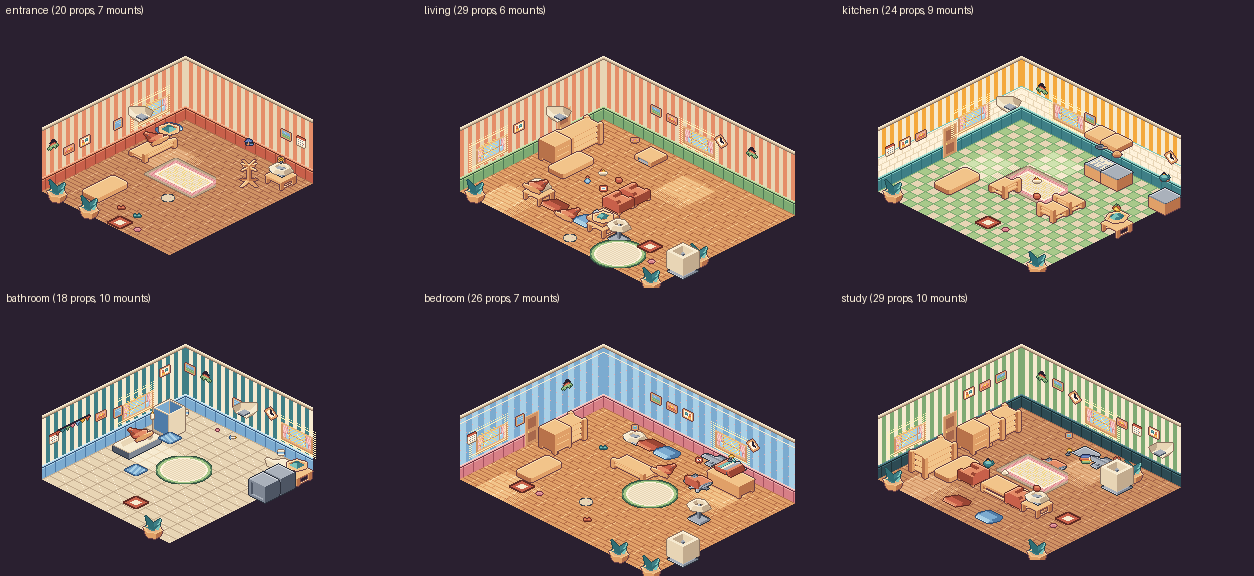
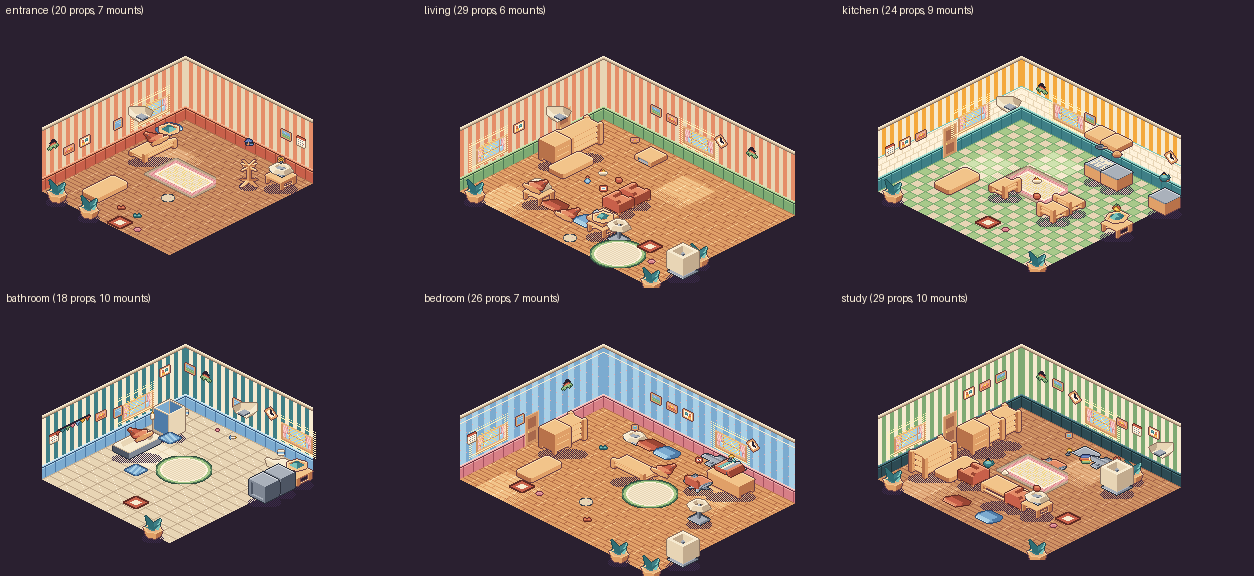
AI-4: baked contact shadows under floor-standing props (task 1e part 1)

diff --git a/tools/pack/pack.py b/tools/pack/pack.py
@@ -8,13 +8,31 @@ ROOT = os.path.join(os.path.dirname(os.path.abspath(__file__)), '..', '..')
 GROUPS = {'core': 'core', 'room-slice': 'room:slice', 'house': 'house'}
 for _k in ('untangle', 'lights', 'mastermind'): GROUPS['puzzle-' + _k] = 'puzzle:' + _k   # puzzle skin atlases
 for _r in ('entrance', 'living', 'kitchen', 'bathroom', 'bedroom', 'study'): GROUPS['room-' + _r] = 'room:' + _r   # one shell atlas per room
+def floor_kinds():
+    """Floor-standing prop kinds (not flat/top/mount) parsed from src/content/worldKinds.ts: these get a baked contact shadow."""
+    t = open(os.path.join(ROOT, 'src', 'content', 'worldKinds.ts')).read()
+    return {m.group(1) for m in re.finditer(r'(\w+): B\(([^)]*)\)', t) if not re.search(r'flat|top|mount', m.group(2))}
+SHADE = (0x3a, 0x2a, 0x4a, 255)
+def with_shadow(im):
+    """Checker-dithered palette 'shade' ellipse behind the sprite base (2 px extra canvas at the bottom, pivot unchanged). Source PNGs stay clean."""
+    bb = im.getbbox()
+    if not bb: return im
+    w = bb[2] - bb[0]; cx = (bb[0] + bb[2] - 1) / 2; rx = max(5, w * 0.5); ry = max(3, min(6, rx / 2.2)); cy = bb[3] - 2
+    out = Image.new('RGBA', (im.width, im.height + 2), (0, 0, 0, 0)); px = out.load()
+    for y in range(max(0, int(cy - ry)), min(out.height, int(cy + ry) + 1)):
+        for x in range(out.width):
+            if ((x - cx) / rx) ** 2 + ((y - cy) / ry) ** 2 <= 1 and (x + y) % 2 == 0: px[x, y] = SHADE
+    out.alpha_composite(im, (0, 0)); return out
 MS = {'walk': 100, 'idle': 400, 'sleep': 500, 'react': 150, 'eat': 200, 'reach': 120}
 def pack(d, group):
     src = os.path.join(ROOT, 'assets', 'frames', d); pv = {}
     if os.path.exists(os.path.join(src, 'pivots.json')): pv = json.load(open(os.path.join(src, 'pivots.json')))
-    items = []
+    items = []; fk = floor_kinds() if d == 'room-slice' else set()
     for fn in sorted(os.listdir(src)):
-        if fn.endswith('.png'): items.append((fn[:-4].replace('__', '/'), Image.open(os.path.join(src, fn)).convert('RGBA')))
+        if fn.endswith('.png'):
+            name = fn[:-4].replace('__', '/'); im = Image.open(os.path.join(src, fn)).convert('RGBA')
+            if name.startswith('prop/') and name[5:] in fk: im = with_shadow(im)
+            items.append((name, im))
     items.sort(key=lambda t: (-t[1].height, t[0]))
     x = y = rowh = 0; W = 1024; pos = {}
     for name, im in items:

diff --git a/docs/status/AI-4.md b/docs/status/AI-4.md
@@ -7,6 +7,7 @@
 - Task 1(a) bed: `spot/bed/closed|open` hand-built (headboard, two pillows, terracotta blanket, footboard), 83x68, pivot = footprint top vertex (inferred from the old Kenney frame's pivot maths, not yet seen in game). Source: tools/pixelart/bed.py. Order to regenerate: props2.py, spots.py, bed.py, then tools/pack/pack.py.
 - Task 1(c) wiring check, then plants: new standing frames `prop/pottedFern`, `prop/pottedCactus`, `prop/pottedFlower` (1x1, pivot bottom centre, pot colours terracotta/stone/blue). NOT in game yet: they need registering as kinds (see Requests). Source: tools/pixelart/props2.py (dict T).
 - Task 1(d) windows: shells now have rose curtains (tie-back, folds, darker at dusk/night) via tools/materials/gen.py window_px; the window glow overlay (tools/pixelart/light.py) is now a light dither over the glass only, so frame, muntins and curtains show through. Floor light patch under each window already existed in the shell. Regenerate: gen.py assets/frames, light.py assets/frames/house, pack.py.
+- Task 1(e) part 1, contact shadows: tools/pack/pack.py now bakes a checker-dithered palette `shade` ellipse behind every floor-standing `prop/<kind>` frame in room-slice (kinds parsed from src/content/worldKinds.ts: not flat/top/mount); source PNGs stay clean, frames gain 2 px of canvas at the bottom, pivots unchanged. Shadow sits under the sprite's visible base, not the true footprint, so a few look a pixel or two off.
 ## Verified
 - `python3 tools/check-frames/check.py assets/frames/room-slice --max 96` -> "141 files, 0 problems".
 - `npm run art:sheet` -> "missing frames: none"; rugs checked by eye in docs/art/evidence/art-sheet.png; bed frames checked enlarged in isolation only (art-sheet does not draw spots).
@@ -14,9 +15,10 @@
 ## Not verified
 - `npm run shots` could not run: no browser in this sandbox (Chromium download blocked). No Focus or Overview screenshot checked this unit; only the browser-free art sheet. Phone feel: owner only.
 ## Weaknesses (honest, from art-sheet)
-- Same teal spiky plant still used 2-3 times per room; rooms still read 18-29 props with big empty floor; no contact shadows; floor-level pieces like the small red tiles look like stray markers.
+- Same teal spiky plant still used 2-3 times per room; rooms still read 18-29 props with big empty floor; floor-level pieces like the small red tiles look like stray markers.
 ## Requests
 - AI-2/AI-3 (needed to make 1c visible): add `pottedFern`, `pottedCactus`, `pottedFlower` to src/content/worldKinds.ts as `B(1, 1, 4, { sym: true })` (same as pottedPlant) and swap about half of the `pottedPlant` placements in worldPropsA/B.ts so no room repeats one plant more than once. Frames already exist.
 - AI-1: `npm run shots` needs a Chromium; none available to me.
 ## Next
+- AI-2 (density, part 2 of 1e): rooms still hold 18-29 props with large empty floor and few wall pieces; I can draw more wall decor frames on request but the placements are in worldProps*.ts.
 - Owner or AI-1: confirm bed sits right on the bedroom wall in a real Focus shot. 1(c) wiring check, then plant variants, 1(d) windows with curtains + floor light patch, 1(e) contact shadows and wall decor density.
